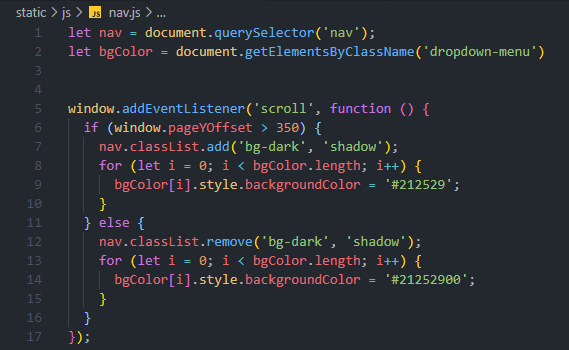
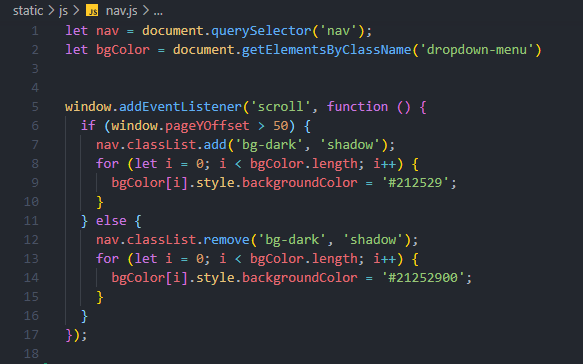
Update README.md navigation bar transition code section

diff --git a/README.md b/README.md
@@ -118,7 +118,7 @@ As mentioned above, the website for Cafe Manbo has been designed to be a fully e
 
       * The navigation bar is an extremely important and integral part of any website so I decided to spend a lot of time trying to make one that is very user friendly that would promote a positive emotional response for the user.
       * Using a mixture of both CSS, JavaScript and Bootstrap, I've created a dynamic, responsive and animated navigation bar.
-      * Upon initial visit, the entire navigation bar will be transparent but upon scrolling 350px, the navigation bar will then apply a dark background. The dark background will also be applied when the navigation bar becomes responsive.
+      * Upon initial visit, the entire navigation bar will be transparent but upon scrolling 50px, the navigation bar will then apply a dark background. The dark background will also be applied when the navigation bar becomes responsive.
       * I decided to create 2 navigation bars for the main website. navbar.html is the home page navbar which is transparent at first then transitions to dark after 350px and navbar_2.html is a non-transparent navbar which is used for all subsequent pages
       * If a user has not logged in then the navigation bar will show the 'Account' option. After they have signed in, it will then display their username. To mitigate any responsive design issues, I have decided to slice the first 10 characters of their name and display that to the user.
       * When the navigation bar hits the breakpoint, it will then collapse into a hamburger which I have made animate into a red cross when clicked.  <br /><br />
@@ -128,7 +128,7 @@ As mentioned above, the website for Cafe Manbo has been designed to be a fully e
 ![Transparent Navigation Bar](static/images/readme-images/navbar-transparent-image.png)
 </details><br />
 
-<details><summary><b>Navigation Bar Transition 350px</b></summary>
+<details><summary><b>Navigation Bar Transition 50px</b></summary>
 
 ![Navigation Bar Transition 350px](static/images/readme-images/navbar-transition-image.png)
 </details><br />
